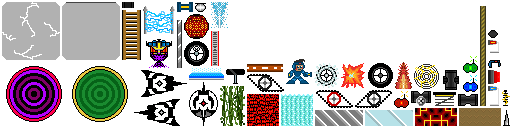
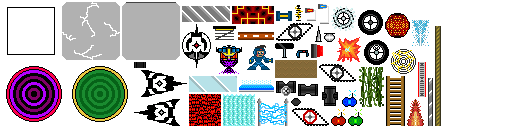
added block sprite

diff --git a/core/src/com/udacity/gamedev/gigagal/app/LevelUpdater.java b/core/src/com/udacity/gamedev/gigagal/app/LevelUpdater.java
@@ -305,8 +305,8 @@ public class LevelUpdater {
                     ((Portable) ground).setCarrier(gigaGal);
                 }
             } else if (((Portable) ground).getCarrier() == gigaGal ) {
-                if (ground instanceof Block) {
-                    gigaGal.setVelocity(new Vector2(gigaGal.getVelocity().x - ((Block) ground).weightFactor() * 10, gigaGal.getVelocity().y));
+                if (ground instanceof Draggable) {
+                    gigaGal.setVelocity(new Vector2(gigaGal.getVelocity().x / (1 +((Draggable) ground).weightFactor()), gigaGal.getVelocity().y));
                 }
                 if (!InputControls.getInstance().shootButtonPressed) {
                     ((Portable) ground).setCarrier(null);
